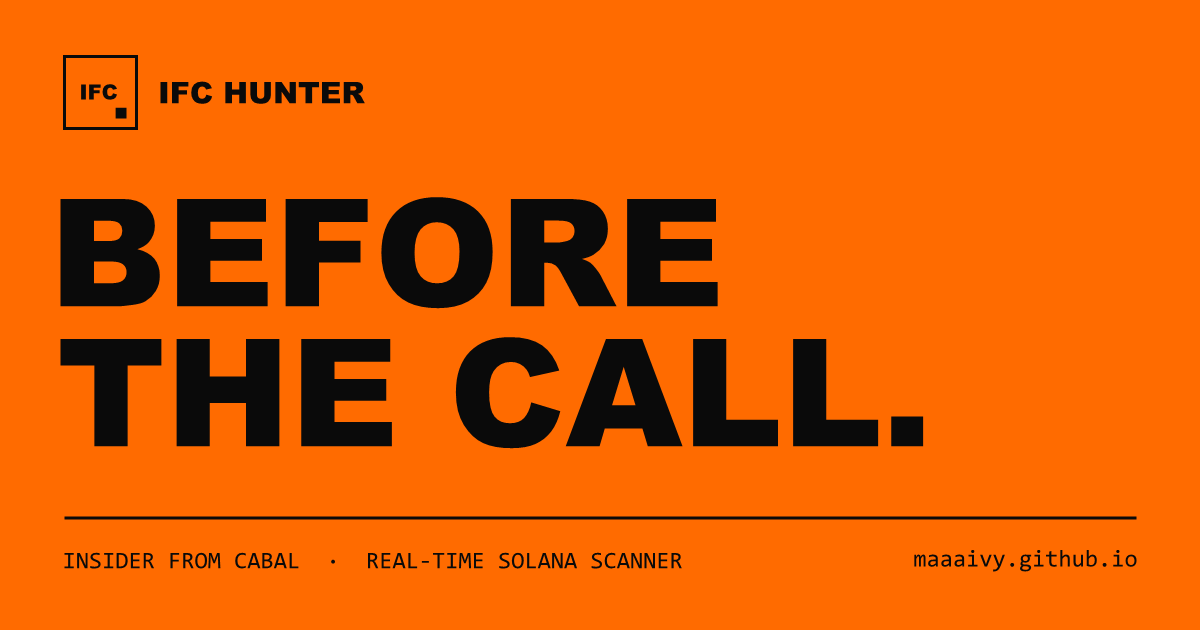
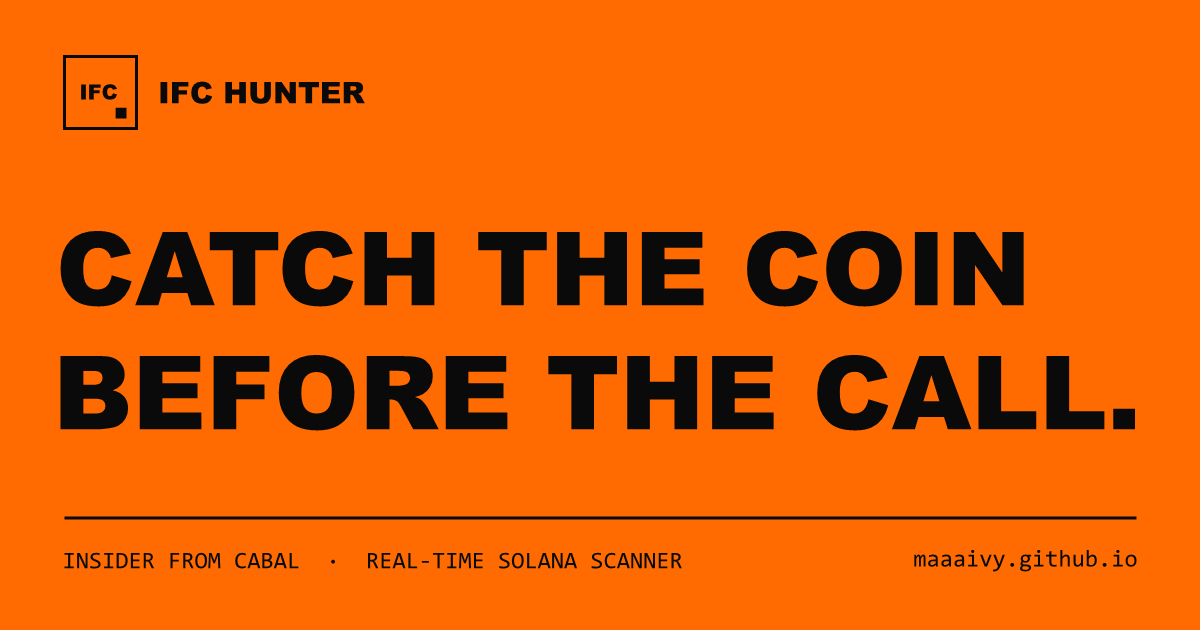
Title "Catch the coin before the call", signal details blurred, "No token yet"
The five signal descriptions are replaced by blurred decoy text, so the
method stays out of the page source too. The X preview card carries the
new title.

Changed region(s): [[0.0308, 0.3016, 0.9558, 0.7238]]

diff --git a/index.html b/index.html
@@ -3,14 +3,14 @@
 <head>
 <meta charset="utf-8">
 <meta name="viewport" content="width=device-width, initial-scale=1">
-<title>IFC Hunter — Before the call</title>
+<title>IFC Hunter — Catch the coin before the call</title>
 <meta name="description" content="IFC Hunter (Insider From Cabal): a real-time Solana scanner that ranks every new memecoin by how closely it matches the next public call of a known group. Built by MAAV.">
 <meta name="theme-color" content="#FF6B00">
 <meta name="color-scheme" content="dark">
 
 <meta property="og:type" content="website">
 <meta property="og:url" content="https://maaaivy.github.io/">
-<meta property="og:title" content="IFC Hunter — Before the call">
+<meta property="og:title" content="IFC Hunter — Catch the coin before the call">
 <meta property="og:description" content="A real-time Solana scanner that ranks every new memecoin by how closely it matches the next public call of a known group.">
 <meta property="og:image" content="https://maaaivy.github.io/og.png">
 <meta property="og:image:width" content="1200">
@@ -71,7 +71,7 @@ a:hover{opacity:.72}
 /* --- Hero --------------------------------------------------------------- */
 .hero{padding-bottom:64px}
 .hero h1{
-  margin:80px 0 0; font-size:clamp(40px, 11.5vw, 196px);
+  margin:80px 0 0; font-size:clamp(40px, 6.6vw, 96px);
   line-height:.86; letter-spacing:-.02em;
 }
 .hero-foot{margin-top:48px; display:flex; flex-wrap:wrap; align-items:flex-end; gap:32px}
@@ -109,6 +109,9 @@ a:hover{opacity:.72}
 .card-n{font-size:56px; line-height:1; color:var(--ac)}
 .card h3{margin:28px 0 0; font-family:var(--disp); font-weight:800; font-size:20px}
 .card p{margin:8px 0 0; font-size:13px; color:var(--soft)}
+/* Blurred on purpose. The text underneath is a decoy: blurring the real
+   descriptions would still leave them readable in the page source. */
+.card p.withheld{filter:blur(5px); -webkit-user-select:none; user-select:none}
 
 .how{margin-top:120px}
 .how .wrap{padding-top:88px; padding-bottom:88px}
@@ -130,6 +133,7 @@ a:hover{opacity:.72}
 footer{margin-top:128px}
 footer .wrap{padding-top:72px; padding-bottom:48px}
 .end{font-size:clamp(40px, 7vw, 104px); line-height:.9; letter-spacing:-.02em}
+.end .yet{background:var(--ink); color:var(--ac); padding:0 .12em}
 .foot{margin-top:48px; padding-top:20px; border-top:2px solid var(--ink); display:flex; flex-wrap:wrap; gap:8px 28px; align-items:center; font-size:13px; font-weight:500}
 .foot a{padding:12px 0}
 .foot .right{margin-left:auto}
@@ -162,7 +166,7 @@ footer .wrap{padding-top:72px; padding-bottom:48px}
       <span class="chip">Work in progress</span>
     </header>
 
-    <h1 class="disp">Before<br>the call.</h1>
+    <h1 class="disp">Catch the coin<br>before the call.</h1>
 
     <div class="hero-foot">
       <p class="lede">IFC Hunter — Insider From Cabal. A real-time Solana scanner that ranks every new memecoin by how closely it matches the next public call of a known group.</p>
@@ -197,27 +201,27 @@ footer .wrap{padding-top:72px; padding-bottom:48px}
       <article class="card">
         <div class="card-n disp">01</div>
         <h3>Wallet flow</h3>
-        <p>Tracked wallets taking a position before anyone talks.</p>
+        <p class="withheld">Withheld. This part of the method stays private.</p>
       </article>
       <article class="card">
         <div class="card-n disp">02</div>
         <h3>Paid listing</h3>
-        <p>A token page paid for ahead of the crowd.</p>
+        <p class="withheld">Withheld. Nice try, it is not in the source either.</p>
       </article>
       <article class="card">
         <div class="card-n disp">03</div>
         <h3>Launch profile</h3>
-        <p>Age and market cap that match how this group launches.</p>
+        <p class="withheld">Withheld. Measured on every past call, kept private.</p>
       </article>
       <article class="card">
         <div class="card-n disp">04</div>
         <h3>Launch team</h3>
-        <p>Recurring buyers in the very first minute.</p>
+        <p class="withheld">Withheld. Ask again after the next call.</p>
       </article>
       <article class="card">
         <div class="card-n disp">05</div>
         <h3>Social footprint</h3>
-        <p>The same social setup as the group's recent calls.</p>
+        <p class="withheld">Withheld. The details are the edge.</p>
       </article>
     </div>
   </section>
@@ -272,7 +276,7 @@ footer .wrap{padding-top:72px; padding-bottom:48px}
 
 <footer class="orange">
   <div class="wrap">
-    <div class="end disp">No token.<br>Nothing to buy.</div>
+    <div class="end disp">No token <span class="yet">yet.</span></div>
     <div class="foot">
       <span>Built by <b>MAAV</b></span>
       <a href="https://x.com/maav_sol">@maav_sol</a>

diff --git a/README.md b/README.md
@@ -9,4 +9,4 @@ one static `index.html`, no framework, no build step.
 
 Built by **MAAV** — [@maav_sol](https://x.com/maav_sol)
 
-No token. Nothing to buy. Not financial advice.
+No token yet. Not financial advice.
